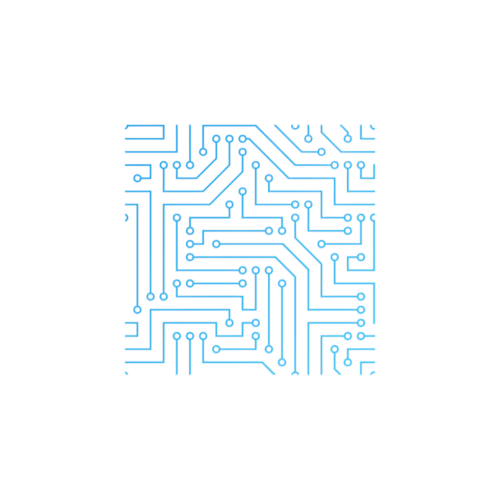
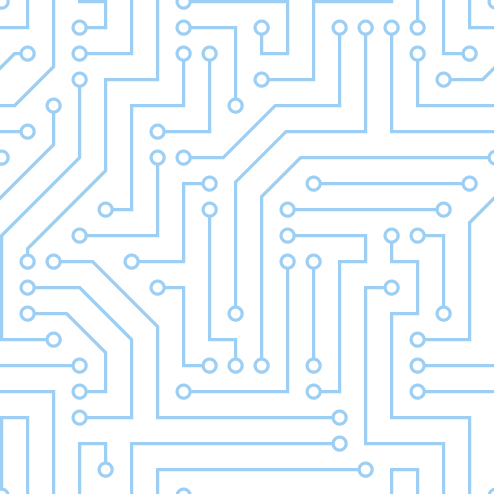
making server

diff --git a/src/pages/ServerPage/Server.js b/src/pages/ServerPage/Server.js
@@ -1,0 +1,101 @@
+import React from 'react'
+
+import {Container , Row , Col , Button} from "react-bootstrap"
+import ServerAmico from '../../assert/Server-amico.png'
+import p130 from '../../assert/130.png'
+import p131 from '../../assert/131.png'
+import './Server.scss'
+
+function Server() {
+    return (
+        <div  className="SERVER w-full">
+            <Row className="Row1 w-full">
+                <Col className="col-1 d-flex  align-items-center" xs={12} md={12} sm={12} lg={12} xl={12}>
+                    <div className="w-full  d-flex justify-content-center align-items-center opacity-75">
+                        <p className=" text-center text-white opacity-100">ويندوز سرور تريد</p>
+                    </div>
+                </Col>
+            </Row>
+            <Row className="Row2 w-full d-sm-block d-lg-flex flex-lg-row justify-content-between ">
+                <Col className=" col-1 d-flex justify-content-center align-items-center" xs={12} sm={12} md={12} lg={6} xl={6} >
+                    <div>
+                        <img className="server-img" src={ServerAmico} alt="server amico" />
+                    </div>
+                </Col>
+                <Col className=" col-2  p-4 w-full my-5 " xs={12} sm={12} md={12} lg={6} xl={6} >
+                    <p className="text-center iranSans paraghraph-1 mt-2">:توضیحات ویندوز سرور ترید</p>
+                    <p className="text-end iranSans paraghraph-2  mt-4">
+                    ورم ایپسوم متن ساختگی با تولید سادگی نامفهوم از صنعت چاپ و با استفاده از طراحان گرافیک است. چاپگرها و متون بلکه روزنامه و مجله در ستون و سطرآنچنان که لازم است و برای شرایط فعلی تکنولوژی مورد نیاز و کاربردهای متنوع با هدف بهبود ابزارهای کاربردی می باشد.ست. چاپگرهن بلکه روزنامه و مجله در ستون و سطرآنچنان که لازم است و برای شرایط فعلی تکنولوژی مورد نیاز و کاربردهای متنوع با هدف بهبود ابزارهای کاربردی می باشد 
+                    </p>
+                </Col>
+                <Col className="col-3 w-full p-4  "  xs={12} sm={12} md={12} lg={12} xl={12}>
+
+                    <Row className="Row2-1 w-75 mx-auto d-flex justify-content-center align-items-center">
+                        <Col className="w-full col-3-1" xs={4} sm={4} md={4} lg={4} xl={4} >
+                            <img src={p131} alt="p131" className=" w-full h-full "/>
+                        </Col>
+                        <Col className="w-full" xs={4} sm={4} md={4} lg={4} xl={4} >
+                            <div className="buy-server p-3">
+                                <p className="text-center text-white mb-4 mt-2 iranSans">سرور 1</p>
+                                <p  className="text-center text-white mt-5 iranSans">ماهيانه</p>
+                                <p className="text-center text-white  iranSans">  تومان  500.000 </p>
+                                <Button className="btn-server text-white w-100 mt-5 mx-auto"><span className="mx-2 my-1"><svg xmlns="http://www.w3.org/2000/svg" id="Backward_arrow_small" data-name="Backward arrow small" width="8.1" height="14.4" viewBox="0 0 12.1 19.4">
+                                    <path id="Path_36" data-name="Path 36" d="M9.7,12.1,0,2.777,2.889,0,9.7,6.546,16.511,0,19.4,2.777Z" transform="translate(12.1) rotate(90)" fill="#ffffff"/>
+                                    </svg></span>خريد</Button>
+                            </div>
+                        </Col>
+                        <Col className=" col-3-3" xs={4} sm={4} md={4} lg={4} xl={4} >
+                            <img src={p130} alt="p130" className=" w-full h-full "/>
+                        </Col>
+                    </Row>
+
+                    <Row className="Row2-1 w-75 mx-auto d-flex justify-content-center align-items-center ">
+                        <Col className="w-full col-3-1" xs={4} sm={4} md={4} lg={4} xl={4} >
+                            <img src={p131} alt="p131" className=" w-full h-full "/>
+                        </Col>
+                        <Col className="w-full" xs={4} sm={4} md={4} lg={4} xl={4} >
+                            <div className="buy-server p-3">
+                                <p className="text-center text-white mb-4 mt-2 iranSans">سرور 1</p>
+                                <p  className="text-center text-white mt-5 iranSans">ماهيانه</p>
+                                <p className="text-center text-white  iranSans">  تومان  500.000 </p>
+                                <Button className="btn-server text-white w-100 mt-5 mx-auto"><span className="mx-2 my-1"><svg xmlns="http://www.w3.org/2000/svg" id="Backward_arrow_small" data-name="Backward arrow small" width="8.1" height="14.4" viewBox="0 0 12.1 19.4">
+                                    <path id="Path_36" data-name="Path 36" d="M9.7,12.1,0,2.777,2.889,0,9.7,6.546,16.511,0,19.4,2.777Z" transform="translate(12.1) rotate(90)" fill="#ffffff"/>
+                                    </svg></span>خريد</Button>
+                            </div>
+                        </Col>
+                        <Col className=" col-3-3" xs={4} sm={4} md={4} lg={4} xl={4} >
+                            <img src={p130} alt="p130" className=" w-full h-full "/>
+                        </Col>
+                    </Row>
+
+
+                    <Row className="Row2-1 w-75 mx-auto d-flex justify-content-center align-items-center ">
+                        <Col className="w-full col-3-1" xs={4} sm={4} md={4} lg={4} xl={4} >
+                            <img src={p131} alt="p131" className=" w-full h-full "/>
+                        </Col>
+                        <Col className="w-full" xs={4} sm={4} md={4} lg={4} xl={4} >
+                            <div className="buy-server p-3">
+                                <p className="text-center text-white mb-4 mt-2 iranSans">سرور 1</p>
+                                <p  className="text-center text-white mt-5 iranSans">ماهيانه</p>
+                                <p className="text-center text-white  iranSans">  تومان  500.000 </p>
+                                <Button className="btn-server text-white w-100 mt-5 mx-auto"><span className="mx-2 my-1"><svg xmlns="http://www.w3.org/2000/svg" id="Backward_arrow_small" data-name="Backward arrow small" width="8.1" height="14.4" viewBox="0 0 12.1 19.4">
+                                    <path id="Path_36" data-name="Path 36" d="M9.7,12.1,0,2.777,2.889,0,9.7,6.546,16.511,0,19.4,2.777Z" transform="translate(12.1) rotate(90)" fill="#ffffff"/>
+                                    </svg></span>خريد</Button>
+                            </div>
+                        </Col>
+                        <Col className=" col-3-3" xs={4} sm={4} md={4} lg={4} xl={4} >
+                            <img src={p130} alt="p130" className=" w-full h-full "/>
+                        </Col>
+                    </Row>
+                </Col>
+            </Row>
+            {/* <Row className="Row3">
+                <Col className="col-1">
+
+                </Col>
+            </Row> */}
+        </div>
+    )
+}
+
+export default Server

diff --git a/src/pages/ServerPage/Server.scss b/src/pages/ServerPage/Server.scss
@@ -1,0 +1,117 @@
+@import '../../sass/variables';
+
+
+.SERVER{
+    width: 100%;
+    height: auto;
+    overflow: hidden;
+
+    .Row1{
+        background-image:$backgroundImage;
+        overflow: hidden;
+        width: 100%;
+        height: 400px;
+        .col-1{
+            width: 100%;
+            height: 100%;
+            background-image: url('../../assert/circuit2.png');
+            background-size: 494px 494px;
+            background-attachment: scroll;
+            background-repeat: repeat-x; 
+
+            div{
+                width: 100vw;
+                height: 100px;
+                background-color: rgb(130, 187, 228);
+
+                p{
+                    font-family: $iranSans;
+                    font-size: 30px;
+                }
+            }
+
+            
+        }
+    }
+
+    .Row2{
+        width: 100%;
+        height: auto;
+        overflow-x: hidden;
+        .col-1{
+
+
+            div{
+                width: 400px;
+                height: 400px;
+                .server-img{
+                    transform: translate(0px , 80px);
+                    width: 100%;
+                    height: 100%;
+                }
+            }
+            
+        }
+        .col-2{
+
+            .paraghraph-1{
+                color: #002266;
+                font-size: 30px;
+            }
+            .paraghraph-2{
+                color: #707070;
+                font-size: 18px;
+            }
+        }
+
+        .col-3{
+            width: 100%;
+        background-color: #007CD8;
+        height: auto;
+
+            .Row2-1{
+                margin-top:100px;
+                margin-bottom: 100px;
+                .col-3-1{
+                    width: 275px;
+                    height: 300px;
+
+                    img{
+                        width: 100%;
+                        height: 100%;
+                    }
+                }
+
+                .col-3-3{
+                    width: 275px;
+                    height: 300px;
+
+                    img{
+                        width: 100%;
+                        height: 100%;
+                    }
+                }
+                .buy-server{
+                    background-color: rgb(99, 176, 231);
+                    height: 300px;
+                    width: 275px;
+                    border-radius: 5px;
+                }
+                
+            }
+        }
+
+    }
+
+}
+
+.iranSans {
+    font-family: $iranSans;
+}
+
+@media screen and (max-width : 768px) {
+    .server-img{
+        transform: none;
+        margin-bottom: 30px;
+    }
+}

diff --git a/src/Components/Header/Header.js b/src/Components/Header/Header.js
@@ -33,13 +33,14 @@ function Header() {
                                                 <img src={Logo} alt="logo" style={{width : "100%" , height : "100%"}} />
                                             </li> */}
                                             <li className="nav-item active mx-2 mx-sm-auto  iranSans">
-                                                <a className="nav-link text-white" href="#">صحفه اصلي</a>
+                                                <a className="nav-link text-white" href="/">صحفه اصلي</a>
+                                                
                                             </li>
                                             <li className="nav-item mx-2 mx-sm-auto iranSans">
                                                 <a className="nav-link text-white" href="#">قوانين و مقررات مشاوره اقتصادي</a>
                                             </li>
                                             <li className="nav-item mx-2 mx-sm-auto iranSans">
-                                                <a className="nav-link text-white" href="#">ويندوز سرور تريد</a>
+                                                <a className="nav-link text-white" href="/server">ويندوز سرور تريد</a>
                                             </li>
                                             <li className="nav-item mx-2 mx-sm-auto iranSans">
                                                 <a className="nav-link text-white" href="#"> مقالات</a>

diff --git a/src/Components/Footer/Footer.js b/src/Components/Footer/Footer.js
@@ -4,9 +4,9 @@ import "./Footer.scss";
 
 const Footer = () => {
     return(
-        <Container className="overflow-hidden">
+        <Container fluid className="w-full overflow-hidden">
             <Row>
-                <Col xs={12} sm={12} md={12} lg={12} xl={12}>
+                <Col  xs={12} sm={12} md={12} lg={12} xl={12}>
                     <footer className=" FOOTER p-3">
                         <Row className="d-flex justify-content-center align-items-center p-5">
                             <Col xs={12} sm={6} md={6} lg={3} xl={3} className="p-3 d-flex justify-content-center align-items-center">
@@ -67,7 +67,7 @@ const Footer = () => {
                                 </div>
                             </Col>
                             <Col style={{height:"200px"}}  className="h-auto d-flex justify-content-center flex-column align-items-center"  xs={12} sm={6} md={6} lg={3} xl={3}>
-                                <div className="d-flex justify-content-center flex-column align-items-end">
+                                <div className="d-flex justify-content-center flex-column align-items-end  ">
                                     <p className="header-P">اطلاعات تماس</p>
                                     <div className="d-flex justify-content-center align-items-center" ><p className="mt-2 mx-2">info@marveltrade.org</p><span>
                                         <svg xmlns="http://www.w3.org/2000/svg" width="30.472" height="27.781" viewBox="0 0 36.472 27.781">

diff --git a/src/Layout/Layout.js b/src/Layout/Layout.js
@@ -7,7 +7,7 @@ import Footer from "../Components/Footer/Footer"
 import './Layout.scss';
 
 
-const Layout = ({children}) =>{
+const Layout = () =>{
     return(
         <Container fluid className="w-full h-full">
             <Row className="position-relative">
@@ -15,7 +15,7 @@ const Layout = ({children}) =>{
                     <Header/>
                 </Col>
             </Row>
-            <main className="w-100" style={{marginTop:"80px"}}>
+            <main className="w-full h-full" style={{marginTop:"80px"}}>
                 <Outlet/>
             </main>
             <Row className="position-relative">

diff --git a/src/Components/Footer/Footer.scss b/src/Components/Footer/Footer.scss
@@ -2,15 +2,16 @@
 
 .FOOTER{
     width: 100%;
-    height: 632px;
+    height: 600px;
     background-color: #EFEFEF;
+
     position: absolute;
     bottom: 0px;
     top: 100%;
     left: 0px;
     right: 0px;
     z-index: 1000;
-    overflow-x: hidden;
+
 
 
 
@@ -49,6 +50,12 @@
         border-bottom: 1px solid #707070;
         display: block;
         margin: auto;
+    }
+}
+
+@media screen and (max-width : 768px) {
+    .FOOTER{
+        height: 1500px;
     }
 }
 

diff --git a/src/App.js b/src/App.js
@@ -8,8 +8,9 @@ import {
   Link,
   useRoutes,
 } from "react-router-dom";
-import Register from './pages/Register/Register';
+
 import Layout from "../src/Layout/Layout"
+import Server from './pages/ServerPage/Server';
 
 
 const routes = [
@@ -22,6 +23,7 @@ const routes = [
     element: <Layout />,
     children: [
       { path: "/", element: <Main /> },
+      { path : '/server' , element : <Server/>  }
     ],
   },
 ]

diff --git a/src/sass/_variables.scss b/src/sass/_variables.scss
@@ -1,4 +1,5 @@
 $loginBtn : #002266;
 $iranSans : 'Iranian Sans', sans-serif;
 $bYekan : "BYekan, B Yekan";
+$backgroundImage :  linear-gradient(to left, #007cd8, #1e8ae2, #3198ec, #42a7f6, #53b5ff);
 

diff --git a/public/index.html b/public/index.html
@@ -36,6 +36,8 @@
     <style>
       body{
         overflow-x: hidden;
+        margin: 0px;
+        padding: 0px;
       }
     </style>
   </head>

diff --git a/src/Components/Header/Header.scss b/src/Components/Header/Header.scss
@@ -1,6 +1,7 @@
 @import '../../sass/variables';
 
 .NAV {
+    width: 100%;
     direction: rtl;
     height: 80px;
     z-index: 1000;
